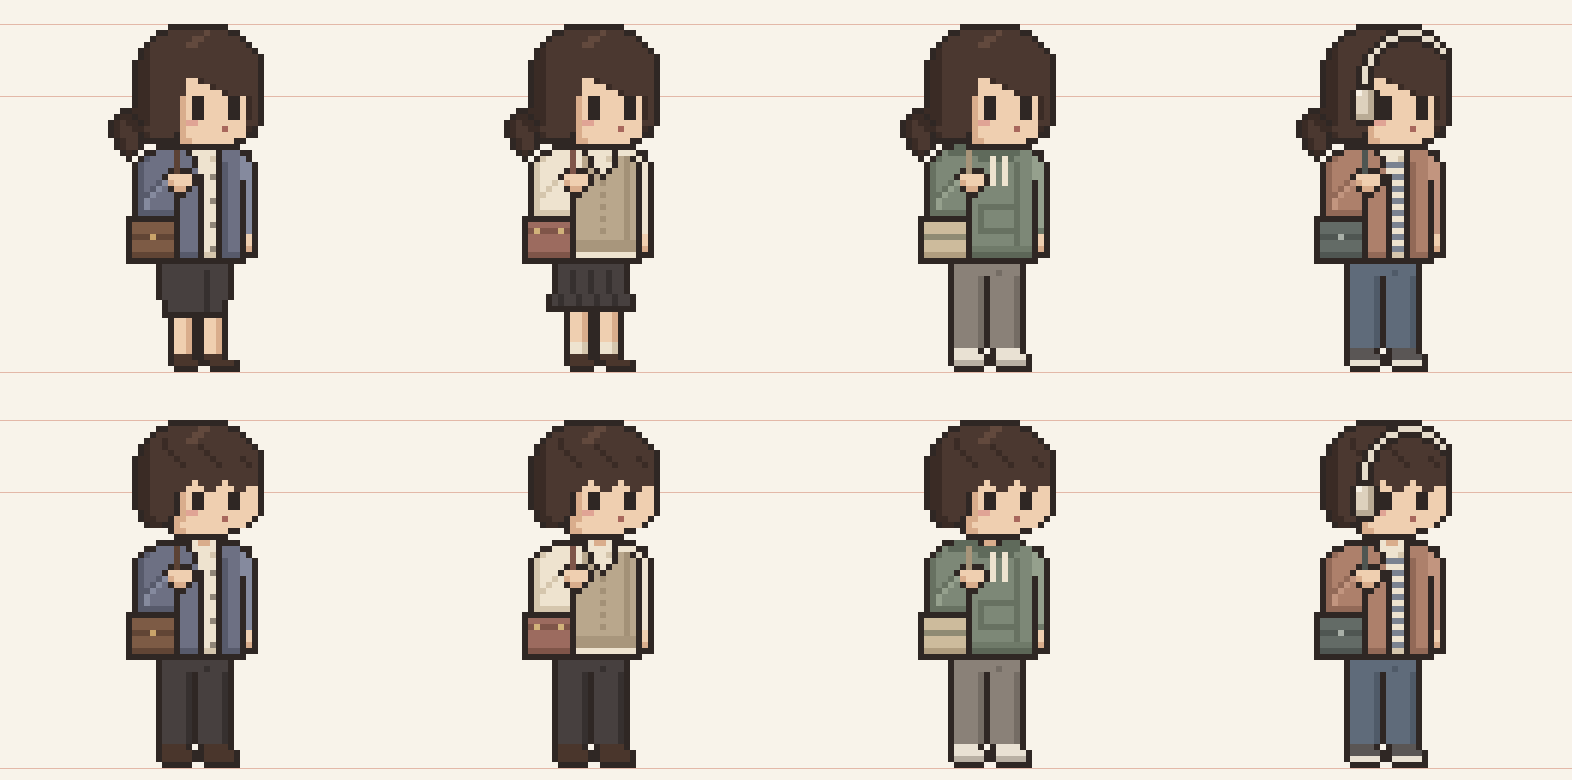
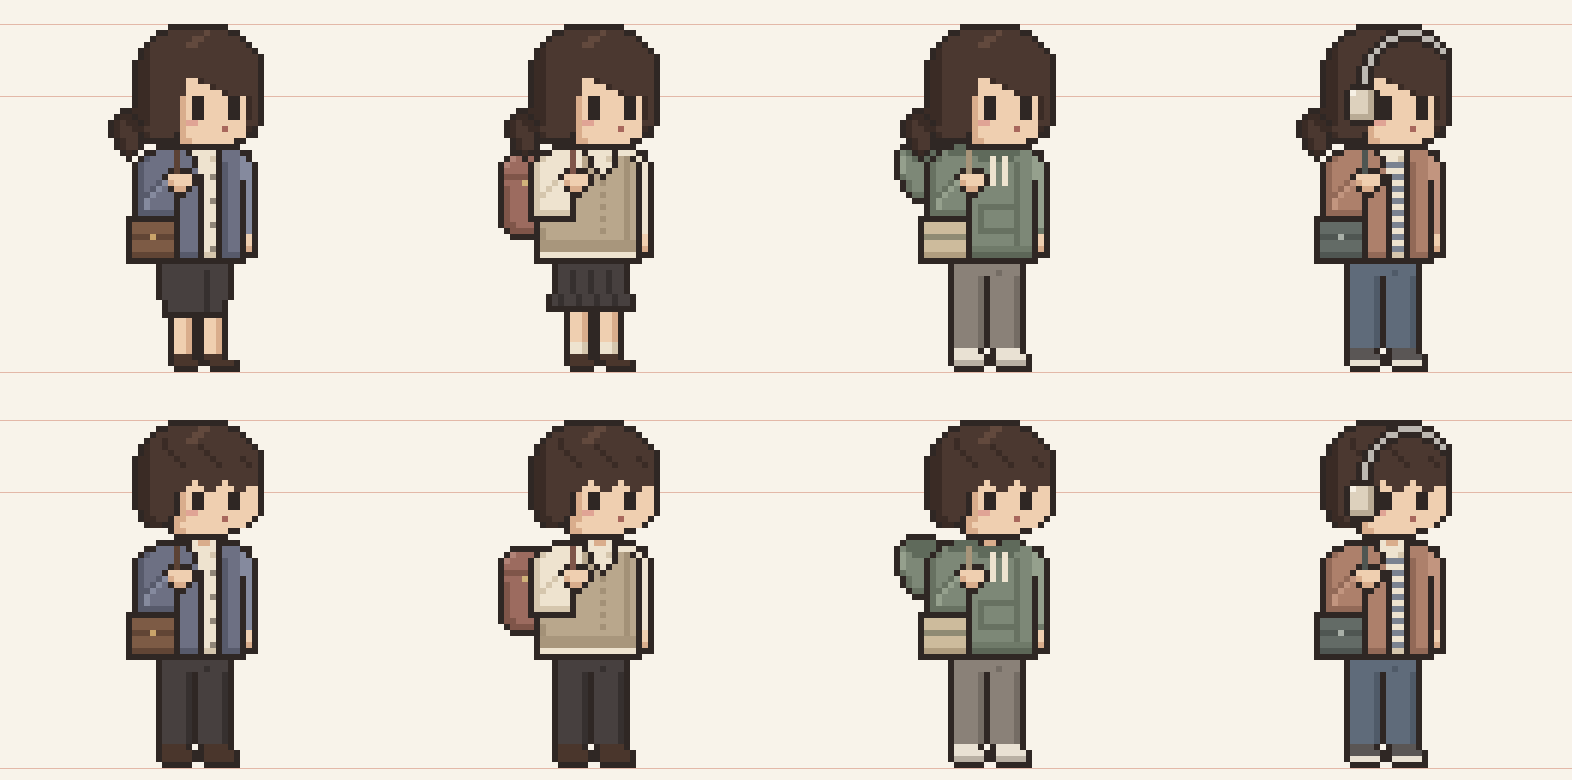
Rework student bag, hoodie hood and headphones for readability
The student now wears a rounded backpack peeking out from the back with
the hand on its shoulder strap, the hoodie gets a hood draped behind the
neck and shoulders below the ponytail, and the headphones get a wider
near ear cup and a light grey band that reads against dark hair.

diff --git a/apps/web/scripts/pixel/commuter.py b/apps/web/scripts/pixel/commuter.py
@@ -155,7 +155,7 @@ LEGS_F = grid([
 
 DX = 1  # 讓角色置中
 
-# ── 學生：米白襯衫＋燕麥色針織背心、低飽和磚紅書包 ──
+# ── 學生：米白襯衫＋燕麥色針織背心、背在背上的磚紅圓角書包（手抓的是書包背帶） ──
 TORSO_STUDENT = grid([
 #    0123456789012345678901
     '.....oooooowSSwoooo...',
@@ -170,14 +170,34 @@ TORSO_STUDENT = grid([
     '.oWwwwwwovvvvvvvvvvowo',
     '.oWwwwwwovvvvvvvvvvowo',
     '.oWWWWWWovvvvvvvvvvowo',
-    'ooooooooovvvvvvvvvvowo',
-    'ogggggggovvvvvvvvvvowo',
-    'oGyGGGyGovvvvvvvvvvowo',
-    'ogggggggovvvvvvvvvvoso',
-    'ogggggggouuuuuuuuuuoso',
-    'ogggggggouuuuuuuuuuoSo',
-    'oGGGGGGGowwwwwwwwwwooo',
-    'oooooooooooooooooooo..',
+    '.oooooooovvvvvvvvvvowo',
+    '..ovvvvvvvvvvvvvvvvowo',
+    '..oVvvvvvvvvvvvvvvvowo',
+    '..oVvvvvvvvvvvvvvvvoso',
+    '..ouuuuuuuuuuuuuuuuoso',
+    '..ouuuuuuuuuuuuuuuuoSo',
+    '..owwwwwwwwwwwwwwwwooo',
+    '..oooooooooooooooooo..',
+])
+
+# 背上的圓角書包：畫在身體後面，從背側（畫面左邊）露出輪廓
+BACKPACK = grid([
+#    012345678
+    '..ooooo..',
+    '.oqgggggo',
+    'oqgggggGo',
+    'oggggggGo',
+    'oGGGGGGGo',
+    'ogggyggGo',
+    'oGggggggo',
+    'oGggggggo',
+    'oGggggggo',
+    'oGggggggo',
+    'oGggggggo',
+    'oGggggggo',
+    'oGGgggggo',
+    '.oGGGGGo.',
+    '..ooooo..',
 ])
 # 背心側面與中線的織紋
 TORSO_STUDENT = [r[:13] + ('V' if 4 <= i <= 15 and r[13] == 'v' and i % 2 == 0 else r[13]) + r[14:17]
@@ -231,6 +251,22 @@ TORSO_HOODIE = grid([
     'oooooooooooooooooooo..',
 ])
 
+# 垂在後頸與肩上的帽兜：畫在身體後面，從背側露出圓弧輪廓與深色內裡
+HOOD = grid([
+#    012345678
+    '..ooooo..',
+    '.oQQQQQo.',
+    'oJQQQQQJo',
+    'oLJQQQJJo',
+    'oLJJJJJJo',
+    'oLJJJJJJo',
+    'oKJJJJJJo',
+    '.oKJJJJo.',
+    '.oKJJJJo.',
+    '..oKKJo..',
+    '...ooo...',
+])
+
 # ── 耳機族：陶土色輕便外套、米白條紋 T、深灰綠斜背包 ──
 TORSO_HEADPHONES = [
     r if i < 2 else r.replace('n', 'w').replace('w', 'z' if i % 2 else 'w')
@@ -250,19 +286,19 @@ def headphones(head_w, dx):
     """包耳式耳機：近側耳罩蓋在耳朵上，頭帶越過頭頂往遠側收進頭後（dx：女生頭左側多出的欄數）"""
     band = [(7, 9), (7, 8), (7, 7), (8, 6), (8, 5), (9, 4), (10, 3), (11, 2), (12, 2), (13, 1), (14, 1),
             (15, 1), (16, 1), (17, 2), (18, 2), (19, 3), (20, 4)]
-    cup = {(x, y) for x in range(6, 9) for y in range(11, 16)}
+    cup = {(x, y) for x in range(5, 9) for y in range(11, 16)}
     cells = {}
     for x, y in band:
         cells[(x, y)] = 'a'
     for x, y in cup:
         cells[(x, y)] = 'C' if x == 8 or y == 15 else 'c'
-    cells[(6, 11)] = 'A'  # 耳罩高光
+    cells[(5, 11)] = 'A'  # 耳罩高光
     out = dict(cells)
     for x, y in cells:
         for nx, ny in ((x + 1, y), (x - 1, y), (x, y + 1), (x, y - 1)):
             if (nx, ny) not in cells and 0 <= nx < 22 and 0 <= ny < 20:
                 out[(nx, ny)] = 'o'
-    for corner in ((5, 10), (9, 10), (5, 16), (9, 16)):
+    for corner in ((4, 10), (9, 10), (4, 16), (9, 16)):
         out.pop(corner, None)
     rows = [['.'] * head_w for _ in range(20)]
     for (x, y), c in out.items():
@@ -274,17 +310,17 @@ OUTFITS = {
     'office': dict(torso=TORSO, legs={'f': LEGS_F, 'm': LEGS_M}),
     'student': dict(torso=TORSO_STUDENT, legs={'f': LEGS_F_STUDENT, 'm': LEGS_M}, pal={
         'v': '#b9a78c', 'V': '#a39177', 'u': '#a8967c',
-        'g': '#9c6b5f', 'G': '#7f5549', 'y': '#d1b27a', 't': '#7f5549',
-    }),
+        'g': '#9c6b5f', 'G': '#7f5549', 'q': '#b28377', 'y': '#d1b27a', 't': '#7f5549',
+    }, back=(BACKPACK, 16, 25)),
     'hoodie': dict(torso=TORSO_HOODIE, legs={'f': LEGS_PANTS, 'm': LEGS_PANTS}, pal={
         'J': '#7d8877', 'K': '#677161', 'L': '#95a08d', 'Q': '#5f6a5b', 'r': '#6f7a69', 'R': '#5c6657',
         'g': '#cdbb9c', 'G': '#b09d7f', 'y': '#8f8a73', 't': '#a8957a', **PANTS,
-    }),
+    }, back=(HOOD, 16, 23)),
     'headphones': dict(torso=TORSO_HEADPHONES, legs={'f': LEGS_PANTS, 'm': LEGS_PANTS}, phones=True, pal={
         'J': '#ad806b', 'K': '#926957', 'L': '#c2957f', 'z': '#7a8290',
         'g': '#636b66', 'G': '#4f5652', 'y': '#a9b0a8', 't': '#4f5652',
         'p': '#5f6b7a', 'P': '#4f5a68', 'k': '#5a5655', 'x': '#e9e1d3',
-        'a': '#e6dccb', 'A': '#f6f0e4', 'c': '#ddd1bd', 'C': '#b9ab95',
+        'a': '#bcb8b2', 'A': '#f6f0e4', 'c': '#ddd1bd', 'C': '#b9ab95',
     }),
 }
 HEADS = {'f': (HEAD_F, 17, 4), 'm': (HEAD_M, 21, 0)}  # 頭的字元圖、左上角 x、左側多出的欄數
@@ -296,6 +332,9 @@ def build(outfit, gender):
     img = Image.new('RGBA', (64, 64), (0, 0, 0, 0))
     legs = o['legs'][gender]
     paste(img, legs, 24 + DX, 64 - 2 - len(legs), pal)
+    if o.get('back'):  # 背在身後的書包、帽兜
+        back, bx, by = o['back']
+        paste(img, back, bx + DX, by, pal)
     paste(img, o['torso'], 20 + DX, 24, pal)
     paste(img, head, hx + DX, 4, pal)
     if o.get('phones'):

diff --git a/docs/PRD.md b/docs/PRD.md
@@ -2315,10 +2315,11 @@ flowchart LR
 | 穿搭 | 上身 | 下身（女／男） | 配件 |
 |---|---|---|---|
 | 上班族 | 灰藍西裝外套、米白襯衫 | 深灰裙／深灰長褲，深色鞋 | 棕色肩背包 |
-| 學生 | 米白襯衫、燕麥色針織背心 | 深灰百褶裙配短襪／深灰長褲，樂福鞋 | 磚紅書包 |
-| 連帽外套 | 灰綠套頭帽 T（帽子放下堆在頸後、帽繩、袋鼠口袋） | 暖灰休閒長褲，米白球鞋（男女同） | 帆布托特包 |
+| 學生 | 米白襯衫、燕麥色針織背心 | 深灰百褶裙配短襪／深灰長褲，樂福鞋 | 背在背上的磚紅圓角書包（背側露出輪廓，手抓肩上的背帶） |
+| 連帽外套 | 灰綠套頭帽 T（帽兜垂在後頸與肩後、帽繩、袋鼠口袋） | 暖灰休閒長褲，米白球鞋（男女同） | 帆布托特包 |
 | 耳機族 | 陶土色輕便外套、米白條紋 T | 灰藍長褲，深灰球鞋（男女同） | 米白包耳式耳機、深灰綠斜背包 |
 
-- 耳機用米白色，壓在深棕頭髮上，原尺寸也看得出頭帶和耳罩。
+- 耳機的近側耳罩 4 px 寬、米白色，頭帶是低飽和淺灰，壓在深棕頭髮上，原尺寸也看得出來。
+- 書包和帽兜畫在身體後面，從背側（畫面左邊）露出輪廓；帽兜比馬尾低，顏色也不同，兩者分得開。
 - **產生方式**：`apps/web/scripts/pixel/commuter.py` 把逐格的像素字元圖輸出成 PNG，各穿搭共用頭部，只換身體的字元圖與色票。另存一張 6 倍 nearest-neighbor 放大的並排預覽（`docs/art/commuter-lineup.png`）：每個角色一列，淡線標出頭頂、眼睛上緣與腳底。
 - **呼吸動畫**：腰線（第 44 列）以上每 0.8 秒往下沉 1 px，腳底不動；減少動態效果時不動。
